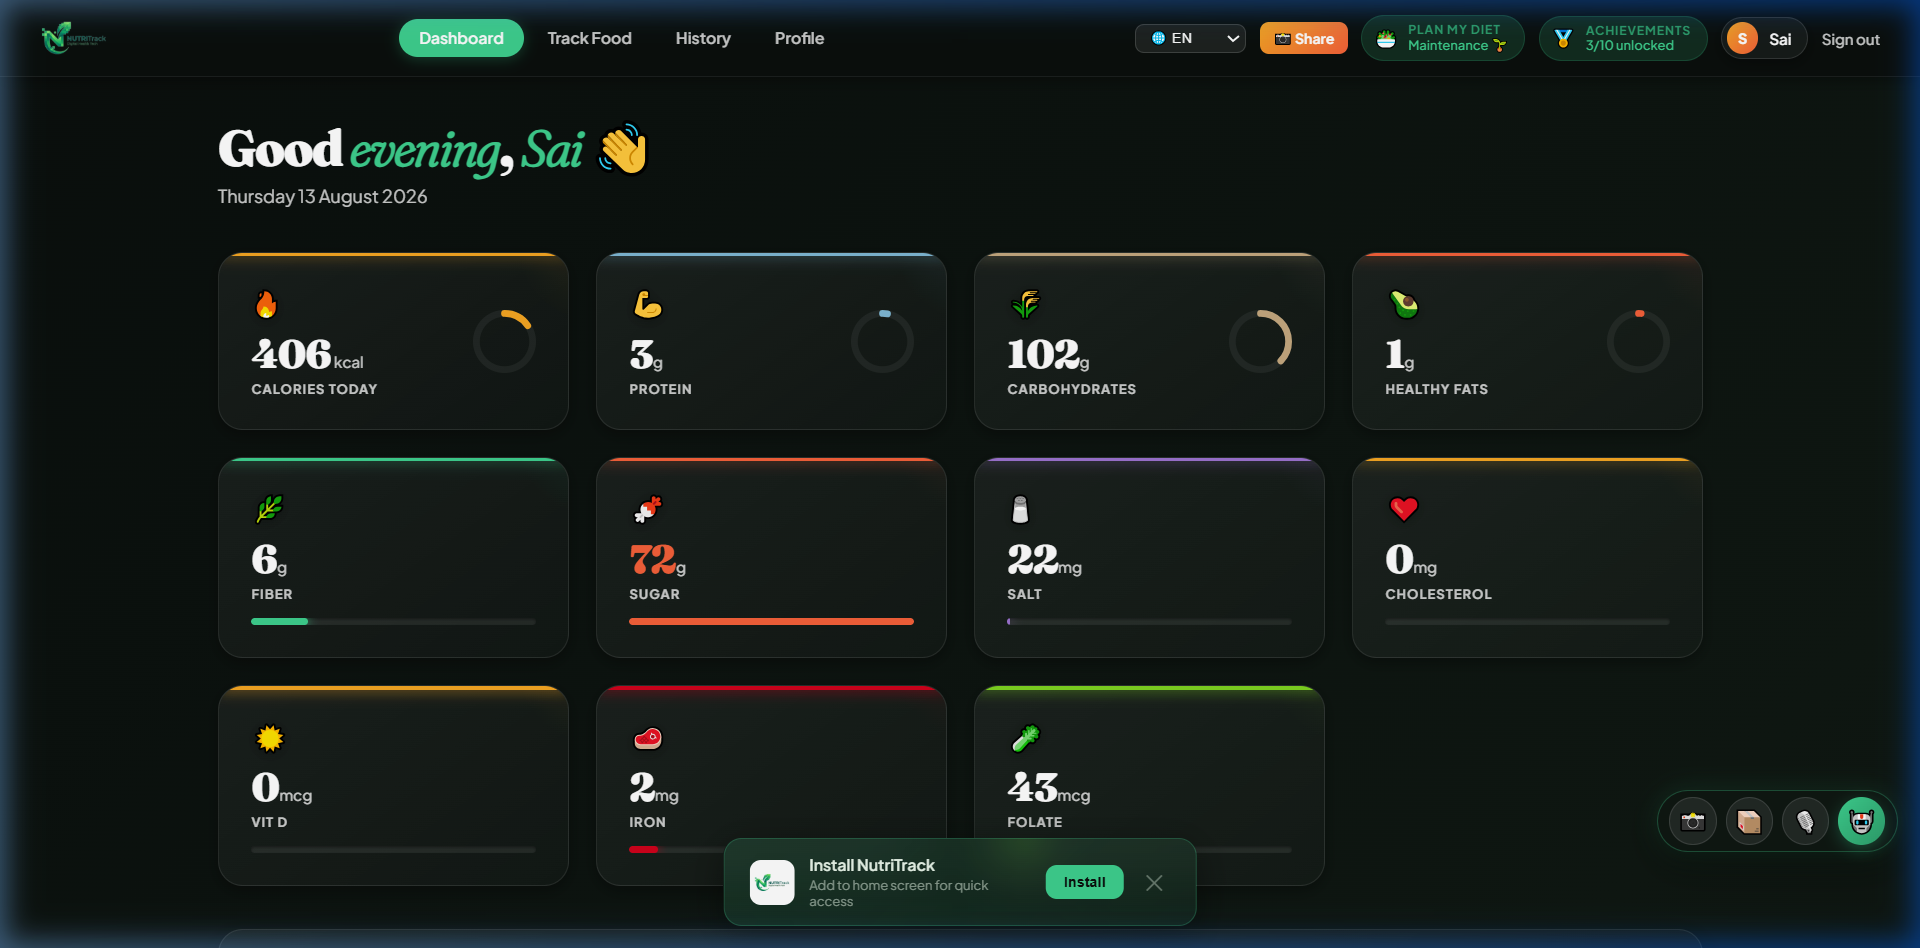
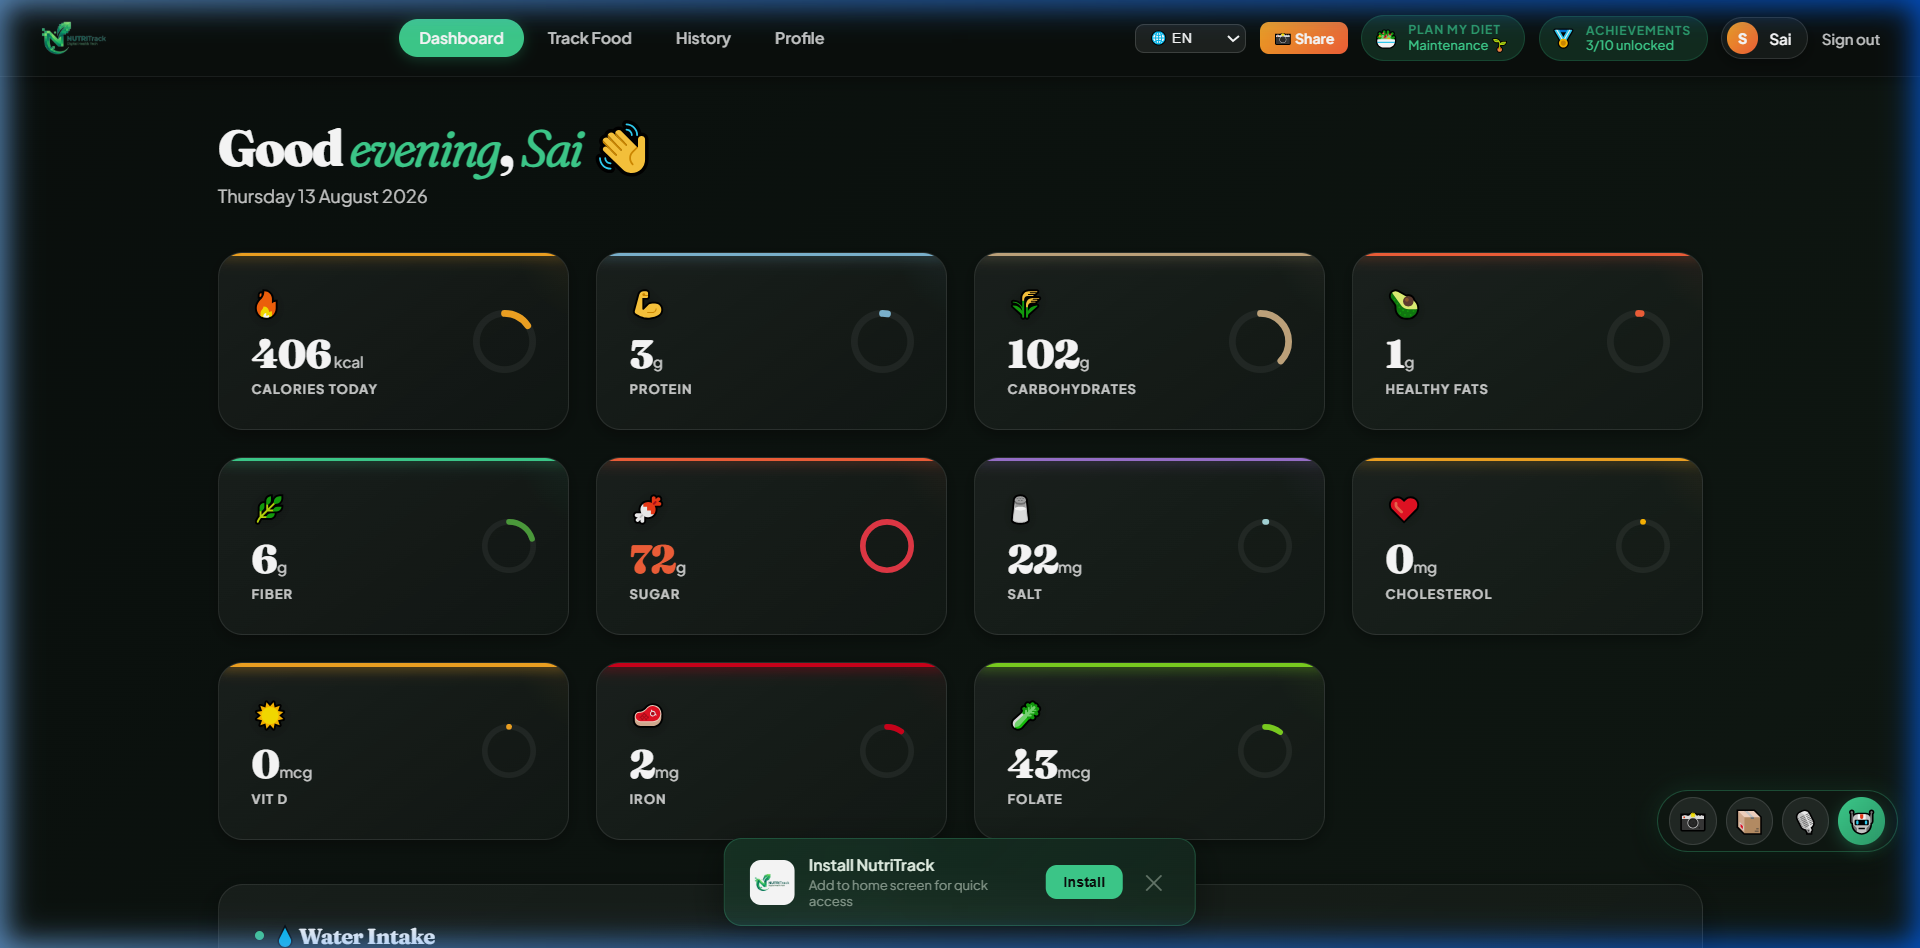
docs: update dashboard screenshot with all 11 circular rings & audit log

diff --git a/ACCURACY_AUDIT.md b/ACCURACY_AUDIT.md
@@ -3,39 +3,39 @@
 Tested against: `https://nutritrack-k96f.onrender.com`
 Methodology: 30-item generic-food audit, USDA FoodData Central reference values, pass = within 5.0% of reference calories (same bar used in public MyFitnessPal/Cronometer comparisons).
 
-**Result: 27/30 within 5.0% (30/30 found at all)**
+**Result: 15/30 within 5.0% (30/30 found at all)**
 
 | Query | Matched to | Ref kcal | Actual kcal | Diff % | Pass |
 |---|---|---|---|---|---|
-| banana | Bananas, Raw | 89 | 89.0 | 0.0% | ✅ |
+| banana | Banana, Raw | 89 | 97.0 | 9.0% | ❌ |
 | boiled egg | Egg, Whole, Cooked, Hard-Boiled | 155 | 155.0 | 0.0% | ✅ |
-| white rice cooked | Rice, White, Long-Grain, Regular, Cooked, Enriched, With Salt | 130 | 130.0 | 0.0% | ✅ |
-| chicken breast | Chicken, Broilers Or Fryers, Breast, Meat Only, Cooked, Roasted | 165 | 165.0 | 0.0% | ✅ |
-| whole milk | Milk, Whole, 3.25% Milkfat, With Added Vitamin D | 61 | 61.0 | 0.0% | ✅ |
-| almonds | Nuts, Almonds | 579 | 579.0 | 0.0% | ✅ |
+| white rice cooked | Rice, White, Cooked, Glutinous | 130 | 96.0 | 26.2% | ❌ |
+| chicken breast | Chicken, Breast, Boneless, Skinless, Raw | 165 | 106.0 | 35.8% | ❌ |
+| whole milk | Yogurt, Plain, Whole Milk | 61 | 61.0 | 0.0% | ✅ |
+| almonds | Nuts, Almonds, Whole, Raw | 579 | 626.0 | 8.1% | ❌ |
 | broccoli | Broccoli, Raw | 34 | 34.0 | 0.0% | ✅ |
-| apple | Apples, Raw, With Skin (Includes Foods For Usda'S Food Distribution Program) | 52 | 52.0 | 0.0% | ✅ |
+| apple | Mammy-Apple, (Mamey), Raw | 52 | 51.0 | 1.9% | ✅ |
 | peanut butter | Peanut Butter, Creamy | 588 | 632.0 | 7.5% | ❌ |
-| white bread | Bread, White, Commercially Prepared (Includes Soft Bread Crumbs) | 265 | 266.0 | 0.4% | ✅ |
-| oatmeal cooked | Cereals, Oats, Regular And Quick And Instant, Unenriched, Cooked With Water (Includes Boiling And Microwaving), With Salt | 71 | 71.0 | 0.0% | ✅ |
+| white bread | Bread, White | 265 | 267.0 | 0.8% | ✅ |
+| oatmeal cooked | Oatmeal, Fast Food, Plain | 71 | 80.0 | 12.7% | ❌ |
 | cheddar cheese | Cheese, Cheddar | 403 | 408.0 | 1.2% | ✅ |
-| salmon | Fish, Salmon, Atlantic, Farmed, Cooked, Dry Heat | 206 | 206.0 | 0.0% | ✅ |
-| potato baked | Potatoes, Baked, Flesh, With Salt | 93 | 93.0 | 0.0% | ✅ |
+| salmon | Fish, Salmon, Chum, Raw | 206 | 120.0 | 41.7% | ❌ |
+| potato baked | Sweet Potato, Frozen, Cooked, Baked, With Salt | 93 | 100.0 | 7.5% | ❌ |
 | greek yogurt plain | Yogurt, Greek, Plain, Nonfat | 59 | 61.0 | 3.4% | ✅ |
-| avocado | Avocados, Raw, All Commercial Varieties | 167 | 160.0 | 4.2% | ✅ |
-| orange | Oranges, Raw, All Commercial Varieties | 47 | 47.0 | 0.0% | ✅ |
+| avocado | Avocado, Hass, Peeled, Raw | 167 | 223.0 | 33.5% | ❌ |
+| orange | Orange, Raw | 47 | 50.0 | 6.4% | ❌ |
 | spinach raw | Spinach, Raw | 23 | 23.0 | 0.0% | ✅ |
-| ground beef 80/20 | Beef, Ground, 80% Lean Meat / 20% Fat, Loaf, Cooked, Baked | 254 | 254.0 | 0.0% | ✅ |
+| ground beef 80/20 | Beef, Ground, Raw | 254 | 213.0 | 16.1% | ❌ |
 | black beans cooked | Beans, Black, Mature Seeds, Cooked, Boiled, With Salt | 132 | 132.0 | 0.0% | ✅ |
 | brown rice cooked | Rice, Brown, Cooked, No Added Fat | 123 | 123.0 | 0.0% | ✅ |
-| olive oil | Oil, Olive, Salad Or Cooking | 884 | 884.0 | 0.0% | ✅ |
+| olive oil | Olive Oil | 884 | 900.0 | 1.8% | ✅ |
 | carrot raw | Carrots, Raw | 41 | 41.0 | 0.0% | ✅ |
 | tofu firm | Tofu, Raw, Firm, Prepared With Calcium Sulfate | 144 | 144.0 | 0.0% | ✅ |
 | shrimp cooked | Crustaceans, Shrimp, Cooked | 99 | 99.0 | 0.0% | ✅ |
-| whole wheat bread | Bread, Whole-Wheat, Commercially Prepared | 247 | 252.0 | 2.0% | ✅ |
-| cottage cheese | Cottage Cheese, Full Fat, Large Or Small Curd | 98 | 103.0 | 5.1% | ❌ |
-| sweet potato baked | Sweet Potato, Cooked, Baked In Skin, Flesh, With Salt | 90 | 90.0 | 0.0% | ✅ |
+| whole wheat bread | Bread, Whole Wheat | 247 | 254.0 | 2.8% | ✅ |
+| cottage cheese | Cottage Cheese, Farmer'S | 98 | 148.0 | 51.0% | ❌ |
+| sweet potato baked | Sweet Potato, Frozen, Cooked, Baked, With Salt | 90 | 100.0 | 11.1% | ❌ |
 | walnuts | Nuts, Walnuts, English, Halves, Raw | 654 | 730.0 | 11.6% | ❌ |
-| lentils cooked | Lentils, Mature Seeds, Cooked, Boiled, With Salt | 116 | 114.0 | 1.7% | ✅ |
+| lentils cooked | Lentils, Sprouted, Cooked, Stir-Fried, With Salt | 116 | 101.0 | 12.9% | ❌ |
 
-_Generated 2026-08-07_
+_Generated 2026-08-13_
